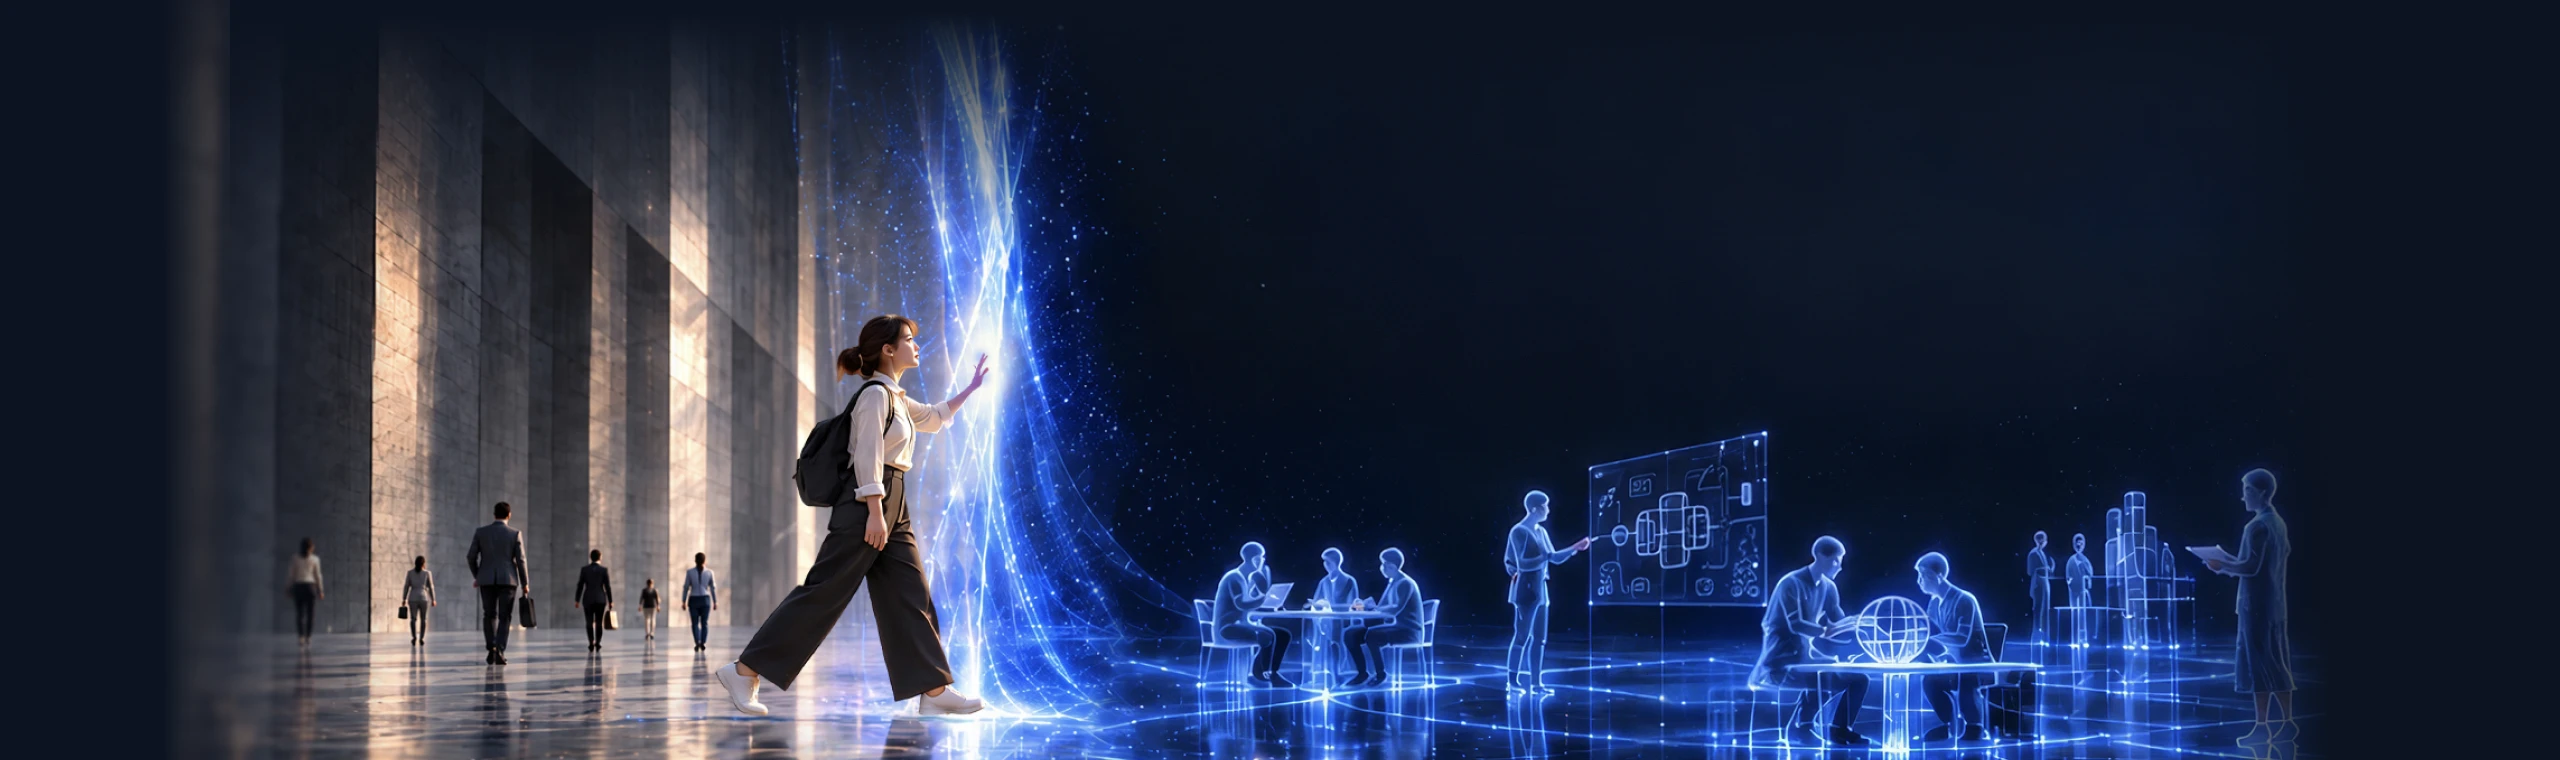
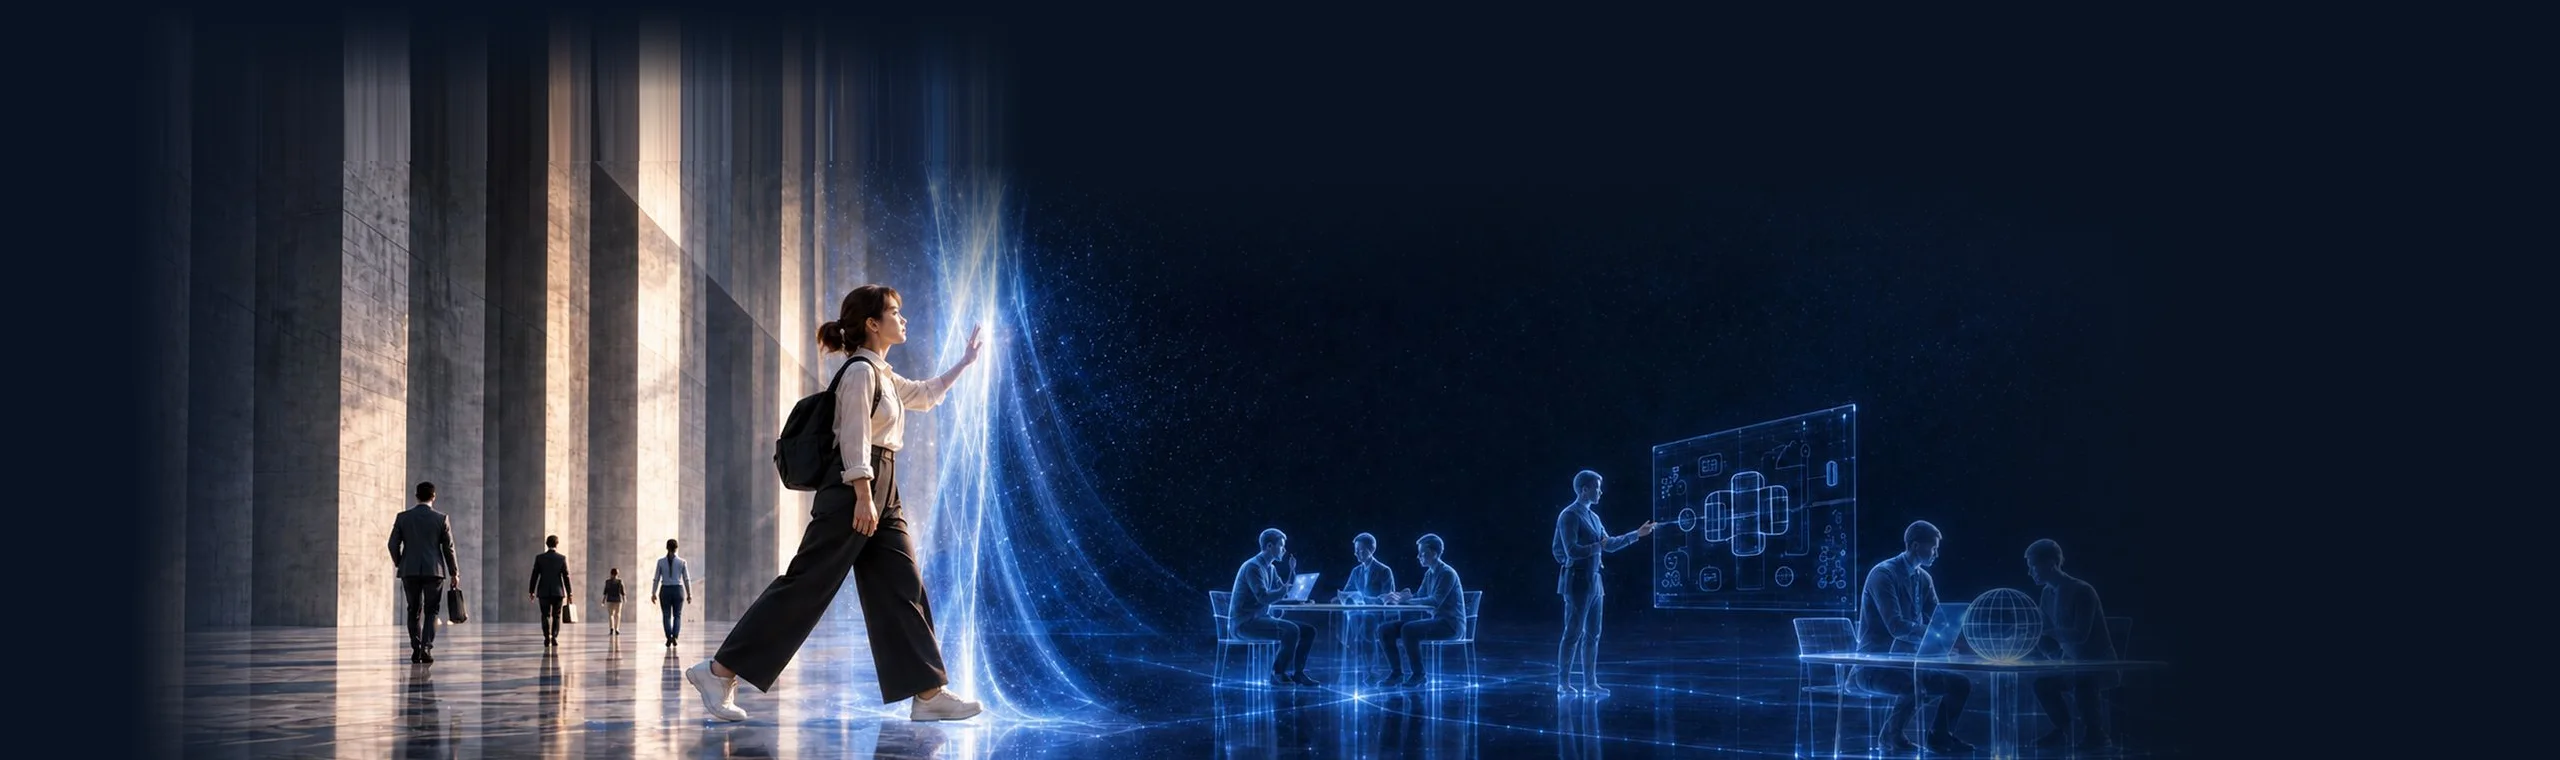
fix: 이미지 수정

diff --git a/js/short.js b/js/short.js
@@ -1,4 +1,4 @@
-// 키비주얼: PC는 배경 영상(initKvVideo), 모바일은 01 → 02 → 03 장면 자동 전환 후 마지막 장면에서 멈춤(이전·다음·스와이프로 넘기면 자동 전환 멈춤)
+// 키비주얼: PC는 배경 이미지, 모바일은 01 → 02 → 03 장면 자동 전환 후 마지막 장면에서 멈춤(이전·다음·스와이프로 넘기면 자동 전환 멈춤)
 // 화면 밖·다른 탭에서는 멈추고, 동작 줄이기 설정이면 자동 전환 없이 정지 화면
 function initKvMotion() {
 	const section = document.querySelector('.sec_kv');
@@ -226,66 +226,6 @@ function initKvMotion() {
 		section.dataset.visible = 'false';
 	});
 	window.addEventListener('pageshow', sync);
-	if ('IntersectionObserver' in window) {
-		new IntersectionObserver((entries) => {
-			inView = entries[0].isIntersecting;
-			sync();
-		}, { threshold: .1 }).observe(section);
-	}
-	sync();
-}
-
-// PC 키비주얼 영상: PC(769 이상)에서만 data-src 영상을 불러와 한 번 재생하고 마지막 장면에서 멈춤
-// 화면 밖·다른 탭에서는 멈췄다가 돌아오면 이어서 재생, 동작 줄이기 설정이면 재생 없이 마지막 장면만 보여줌
-// 영상을 불러오지 못하면 is-video를 빼서 기존 배경 이미지(kv_base)로 대체
-function initKvVideo() {
-	const section = document.querySelector('.sec_kv');
-	const video = section && section.querySelector('.kv_video');
-	if (!video) return;
-	const mobile = window.matchMedia('(max-width: 768px)');
-	const reduced = window.matchMedia('(prefers-reduced-motion: reduce)');
-	let inView = true;
-
-	function showLast() {
-		if (video.duration) video.currentTime = Math.max(0, video.duration - .05);
-	}
-
-	function sync() {
-		if (mobile.matches) {
-			video.pause();
-			return;
-		}
-		if (!video.getAttribute('src')) {
-			section.classList.add('is-video');
-			video.muted = true;
-			video.preload = 'auto';
-			video.src = video.dataset.src;
-		}
-		if (reduced.matches) {
-			video.pause();
-			if (video.readyState >= 1) showLast();
-			return;
-		}
-		if (inView && !document.hidden && !video.ended) {
-			const playing = video.play();
-			// 자동 재생이 막히면(저전력 모드 등) 영상 대신 기존 배경 이미지를 보여줘 재생 버튼이 뜨지 않게 함
-			if (playing) playing.catch((e) => {
-				if (e && e.name === 'NotAllowedError') section.classList.remove('is-video'); // 화면 밖으로 나가 멈춘 경우(AbortError)는 그대로 둠
-			});
-		} else {
-			video.pause();
-		}
-	}
-
-	// 첫 장면이 준비되면 부드럽게 나타냄 (빈 화면 → 영상 전환 시 깜빡임 방지)
-	video.addEventListener('loadeddata', () => video.classList.add('is-ready'));
-	video.addEventListener('loadedmetadata', () => {
-		if (reduced.matches) showLast();
-	});
-	video.addEventListener('error', () => section.classList.remove('is-video'));
-	mobile.addEventListener('change', sync);
-	reduced.addEventListener('change', sync);
-	document.addEventListener('visibilitychange', sync);
 	if ('IntersectionObserver' in window) {
 		new IntersectionObserver((entries) => {
 			inView = entries[0].isIntersecting;
@@ -594,7 +534,6 @@ function initScrollReveal() {
 
 document.addEventListener('DOMContentLoaded', () => {
 	initKvMotion();
-	initKvVideo();
 	initMovie();
 	initTopButton();
 	initAnchorNav();

diff --git a/css/pages/short.css b/css/pages/short.css
@@ -41,22 +41,14 @@ html {scroll-behavior:smooth;}
 .wrap .sec_dark .ico_plus:after {background-color:#EE7A3C;}
 .wrap .is-open > button .ico_plus:after {transform:translateY(-50%) rotate(0);}
 
-/* sec_kv : PC는 배경 영상(2560 × 760)을 화면 폭에 꽉 채움, 영상이 없을 때(스크립트 실패)는 kv_bg_pc 2560 × 760 이미지를 가운데 정렬 */
+/* sec_kv : PC는 배경 이미지(2560 × 760)를 화면 폭에 꽉 채움 */
 .wrap .sec_kv {padding:0; border-top:0; background-color:#0A1322; color:#FFFFFF;}
 .sec_kv .kv_stage {position:relative; height:76rem; overflow:hidden; isolation:isolate; touch-action:pan-y;}
 .sec_kv .kv_art {position:absolute; top:0; left:50%; z-index:-1; width:256rem; height:100%; margin-left:-128rem; background-color:#0A1322;}
 .sec_kv .kv_base {position:absolute; top:0; left:0; width:100%; height:100%;}
 .sec_kv .kv_frame {display:none; position:absolute; top:0; left:0; width:100%; height:100%; object-position:center top;}
-.sec_kv .kv_video {display:none; position:absolute; top:0; left:0; width:100%; height:100%; object-fit:cover; object-position:center; opacity:0; transition:opacity .6s;} /* 화면이 넓어져 위아래가 잘릴 때 아래쪽 기준으로 맞춤 */
-.sec_kv .kv_video.is-ready {opacity:1;}
-/* 자동 재생이 막힌 환경(아이폰 저전력 모드 등)에서 브라우저가 띄우는 기본 재생 버튼 숨김 */
-.sec_kv .kv_video::-webkit-media-controls,
-.sec_kv .kv_video::-webkit-media-controls-start-playback-button,
-.sec_kv .kv_video::-webkit-media-controls-overlay-play-button {display:none !important; -webkit-appearance:none;}
 @media all and (min-width:769px) {
-	.sec_kv.is-video .kv_art {left:0; width:100%; margin-left:0;}
-	.sec_kv.is-video .kv_video {display:block;}
-	.sec_kv.is-video .kv_base {display:none;}
+	.sec_kv .kv_art {left:0; width:100%; margin-left:0;}
 }
 /* 설명회 신청 : KV 오른쪽 아래, 내용 폭(1440) 끝에 맞춤 */
 .wrap .sec_kv .kv_briefing {position:absolute; right:calc(50% - 61.6rem); bottom:9rem; z-index:5; justify-content:space-between; gap:1.4rem; width:33.8rem; min-height:6.8rem; padding:1.2rem 2rem; border-radius:.3rem; font-size:1.8rem; font-weight:600; line-height:1.3;}
@@ -342,7 +334,6 @@ html {scroll-behavior:smooth;}
 	.sec_kv .kv_base_img {object-position:center top;}
 	.sec_kv .kv_frame {display:block;}
 	.wrap .sec_kv .kv_briefing {left:2rem; right:2rem; bottom:2rem; width:auto; min-height:5.6rem; padding:0 2rem; font-size:1.8rem; font-weight:600;}
-	.sec_kv .kv_video {display:none !important;}
 	.sec_kv .kv_frame.is-entering,
 	.sec_kv .kv_base.is-entering {z-index:3; animation:kv_reveal .5s cubic-bezier(.22,.61,.36,1) both;}
 	.sec_kv .kv_txt {flex-direction:column; gap:1.6rem; padding-top:2.4rem;}

diff --git a/index.html b/index.html
@@ -87,13 +87,11 @@
 		<!-- sec_kv -->
 		<section class="sec_kv" aria-labelledby="kv_title" data-slide="0">
 			<div class="kv_stage">
-				<!-- PC는 배경 영상(JS가 PC에서만 data-src로 불러옴), 모바일(768 이하)은 01 → 02 → 03 장면 전환 -->
+				<!-- PC는 배경 이미지(2560 × 760), 모바일(768 이하)은 01 → 02 → 03 장면 전환 -->
 				<div class="kv_art" aria-hidden="true">
-					<video class="kv_video" data-src="./video/short_kv_pc.mp4" width="2560" height="760" muted playsinline
-						preload="none" tabindex="-1" disablepictureinpicture disableremoteplayback></video>
 					<picture class="kv_base">
 						<source srcset="./img/short_kv_01_mo.webp" width="880" height="1564" media="(max-width: 768px)">
-						<img src="./img/short_kv_bg_pc.webp" class="kv_base_img" width="2560" height="760" alt=""
+						<img src="./img/kv_v2_pc.jpg" class="kv_base_img" width="2560" height="760" alt=""
 							fetchpriority="high" decoding="async">
 					</picture>
 					<img class="kv_frame" data-src="./img/short_kv_02_mo.webp" width="880" height="1564" alt=""
@@ -575,7 +573,7 @@
 								aria-controls="faq_a1">누가 지원할 수 있나요?<span class="ico_plus"
 									aria-hidden="true"></span></button>
 							<div class="faq_answer" id="faq_a1" role="region" aria-labelledby="faq_q1" hidden>
-								<p>대한민국 국적의 만 19~34세 청년 중 <br class="mo_show">약 2년 Full Time(22개월) 참여가 가능한 분을 대상으로 합니다.</p>
+								<p>대한민국 국적의 청년으로, 2027년 3월 1일 기준 <br class="mo_show">만 19세 이상 만 34세 이하인 분이 지원할 수 있습니다. <br>또한, 약 2년 Full Time(22개월) 참여가 가능해야 합니다.</p>
 							</div>
 						</div>
 						<div class="faq_item">
